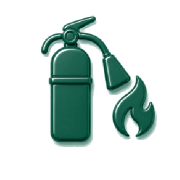
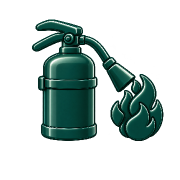
feat(pictograma): o extintor refeito — alavanca e bocal em lados opostos
O Agnaldo apontou o erro: no desenho antigo o gatilho ficava do MESMO lado do
bocal de saida. Um extintor assim e impossivel de operar — quem aperta a
alavanca fica na frente do jato. Na arte nova a alavanca sai para a esquerda,
por cima, e a mangueira aponta para a direita, na chama.

Nao e detalhe estetico: o app ensina prevencao, e um pictograma que mostra o
equipamento sendo segurado errado ensina errado.

Formato limpo, como o botijao: 1269x1240, transparente, processado com
`--limpo` e sem reancoragem de cor. Entra nas tabelas LIMPAS e FORA de
reenquadrar_acervo.js, e a arte antiga fica marcada como superada — na pasta,
intacta, fora da passada.

MEDICOES, porque a segunda peca nova e o que revela a consistencia:
- extintor 263x243, caixa 73% (no alvo), proporcao 0,92, tinta 27,3%
- as pecas antigas da secao ficam em 69-70% de caixa e 21-26% de tinta,
  entao o novo convive sem dominar

COR: as duas pecas novas distam 45 uma da outra. O extintor esta a 22 do verde
unico (6,78,59); o botijao, a 62. Ou seja, o extintor e que esta no tom certo
— perto o bastante da familia para antigo e novo conviverem. Fica a decisao
do Agnaldo: se quiser o conjunto novo consistente, o alvo melhor e o tom do
proprio extintor, (26,77,67), nao o do botijao.

Verificado: a passada completa muda exatamente 3 arquivos (as densidades do
extintor) e os outros 183 saem byte a byte identicos. npm run validate: 0.

Changed region(s): [[0.1667, 0.0833, 0.9167, 0.8333]]

diff --git a/scripts/reenquadrar_acervo.js b/scripts/reenquadrar_acervo.js
@@ -51,8 +51,9 @@ const PASTAS = ['education-pictograms', 'home-pictograms', 'menu-pictograms', 't
 // Cada entrada tambem RENOMEIA: o arquivo tem nome de autor e a saida precisa
 // do nome que o app importa.
 const LIMPAS = [
-    { pasta: 'travel-pictograms',    arquivo: 'Modal motocicleta com baú.png', nome: 'pictogram-transporte-moto' },
-    { pasta: 'education-pictograms', arquivo: 'Botijão de gás standard.png',   nome: 'pictogram-vazamento-gas' },
+    { pasta: 'travel-pictograms',    arquivo: 'Modal motocicleta com baú.png',      nome: 'pictogram-transporte-moto' },
+    { pasta: 'education-pictograms', arquivo: 'Botijão de gás standard.png',        nome: 'pictogram-vazamento-gas' },
+    { pasta: 'education-pictograms', arquivo: 'Extintor Verde com Chama em 3D.png', nome: 'pictogram-fire-prev' },
 ];
 
 // ── FORA DA PASSADA PADRAO ──────────────────────────────────────────────────
@@ -64,7 +65,12 @@ const LIMPAS = [
 const FORA = [
     { pasta: 'travel-pictograms',    arquivo: 'Modal motocicleta com baú.png' },  // (1)
     { pasta: 'education-pictograms', arquivo: 'Botijão de gás standard.png' },    // (1)
+    { pasta: 'education-pictograms', arquivo: 'Extintor Verde com Chama em 3D.png' }, // (1)
     { pasta: 'education-pictograms', arquivo: 'pictogram-vazamento-gas.png' },    // (2) superado em 25/10/2026
+    { pasta: 'education-pictograms', arquivo: 'pictogram-fire-prev.png' },        // (2) superado em 25/10/2026
+                                                                                   //     — no desenho antigo a alavanca
+                                                                                   //     e o bocal apontavam para o mesmo
+                                                                                   //     lado, o que e impossivel de operar
     { pasta: 'travel-pictograms',    arquivo: 'Modal motocicleta.png' },          // (3)
     { pasta: 'travel-pictograms',    arquivo: 'pictogram-transporte-carro .png' },// (3) nome com espaco
 ];
